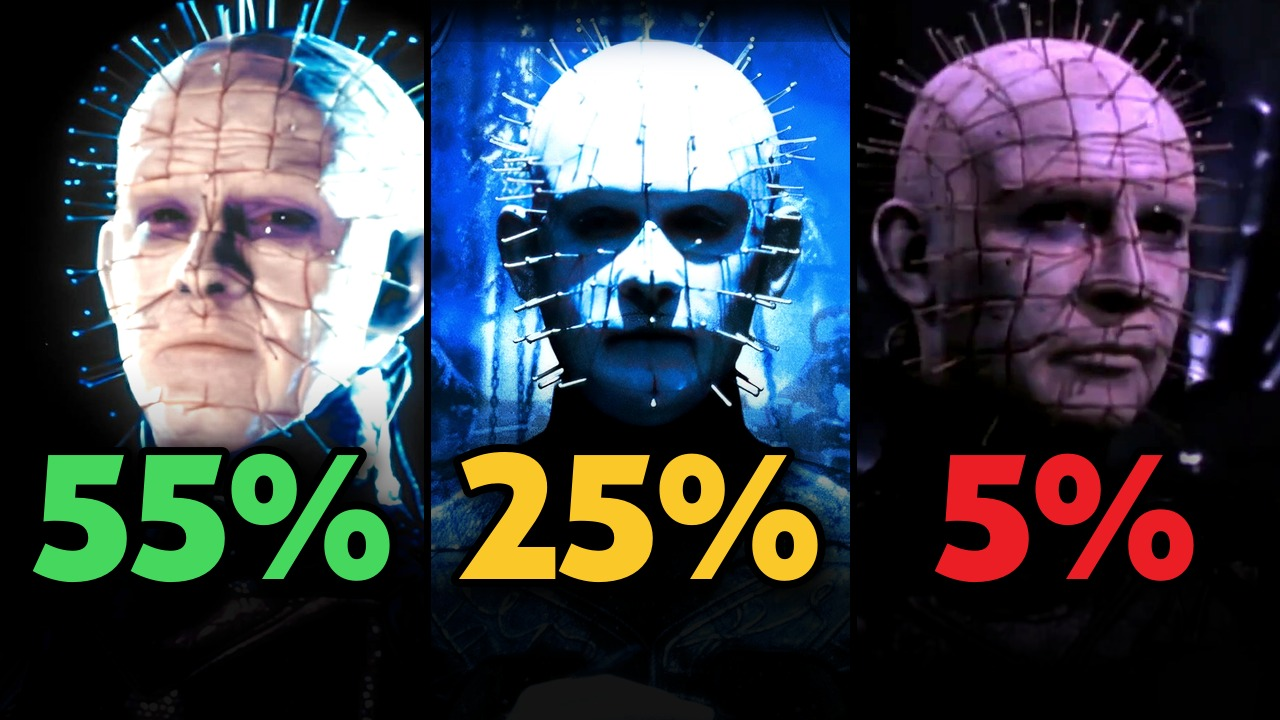
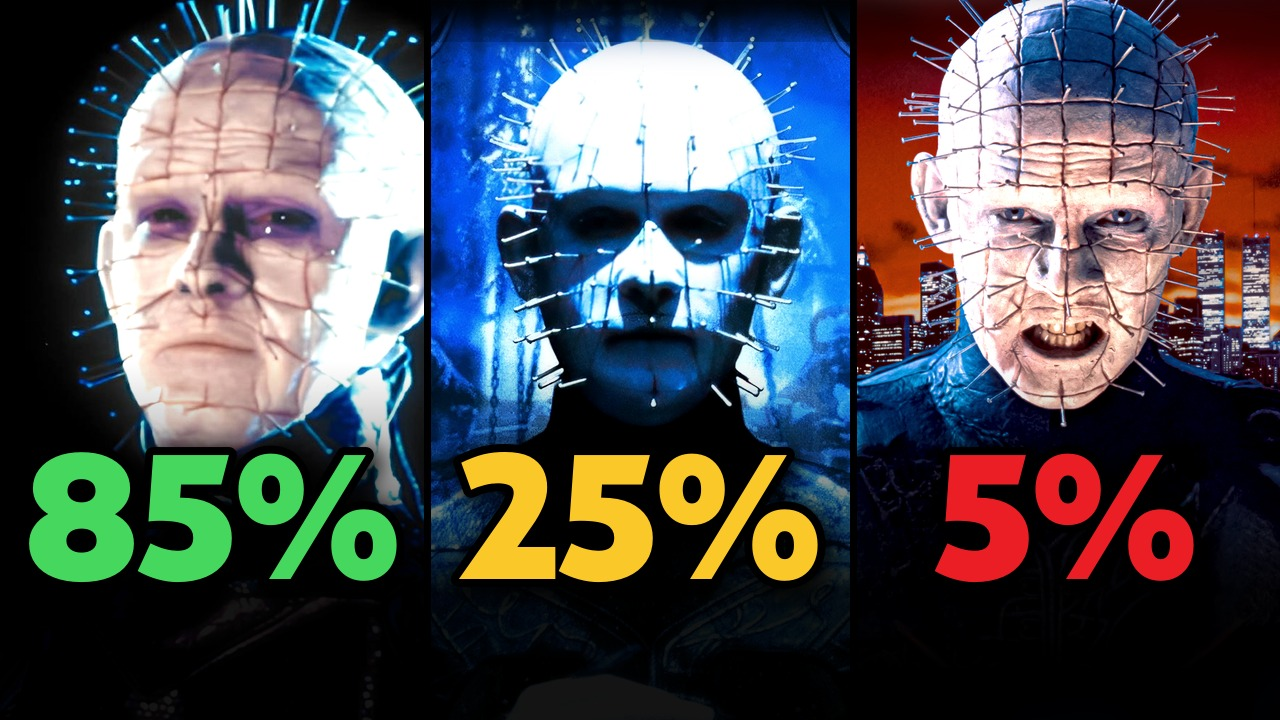
EP07 thumbs v6b: new numbers, each film once (A Revelations/Hellseeker/Judgment, B 1987/2022/Inferno, C Hellbound/Bloodline/Hell on Earth)

diff --git a/concepts/i444/ep07_pinhead/thumbs.py b/concepts/i444/ep07_pinhead/thumbs.py
@@ -70,12 +70,13 @@ os.makedirs(OUT, exist_ok=True)
 # No source image twice in a thumbnail or across A/B/C (the 1987 / Hell on Earth skyline face is one photo).
 FACE, EYE = 135, 215
 def F(clip, t, cx, cy, em, pct, col, bright=1.15): return P(clip, t, cx, cy, em, pct, col, bright, face_px=FACE, eye_y=EYE)
-three([F('poster:o_lXpBj7RDr7wShql0KpCLYHyYvdi.jpg', 0, 2179, 865, 405, '80%', GREEN, 1.1),     # Hellworld, jar room
-       F('native:hr1_pack4k', 44.0, 1240, 425, 230, '40%', YEL, 1.05),                         # Hellraiser 1987, hospital blinds (4K pack, native px)
-       F('poster:o_xjeoa7KjnUMQzJXGunHmgMjhHmP.jpg', 0, 2556, 802, 405, '5%', RED, 1.05)], 'pinhead_thumb_a.jpg')   # Hell on Earth, skyline
-three([F('poster:o_qW4hr2WweKiyztgd4Ql0wlfRYBF.jpg', 0, 2403, 458, 275, '60%', GREEN, 1.2),     # Judgment
-       F('hr22_bridge', 25.0, 807, 434, 191, '30%', YEL, 1.9),                                # the Priest, 2022
-       F('poster:o_yyiu_notitle.jpg', 0, 430, 639, 228, '8%', RED, 1.1)], 'pinhead_thumb_b.jpg')    # Inferno, official poster art (o_yyiuRnEIDCjr0g2Fsal0isi9GcU, title faded to its black background)
-three([F('poster:o_pl5OzUABUK5AgAsMlQg2VyybRHL.jpg', 0, 1719, 485, 188, '55%', GREEN, 0.95),     # Hellbound
-       F('poster:o_udZ3XqsurnNuGp1QfS5CLod6MS5.jpg', 0, 1000, 450, 283, '25%', YEL, 0.95),     # Bloodline, official poster art
-       F('hr3_unstoppable', 86.5, 1000, 418, 195, '5%', RED, 1.35)], 'pinhead_thumb_c.jpg')       # Hell on Earth, Boiler Room chains
+# v6b (owner 11/04 21:43 KST numbers): each film once across A/B/C; green >= 50, yellow 25-45, red <= 20
+three([F('poster:o_lnCm_notitle.jpg', 0, 506, 633, 289, '70%', GREEN, 1.05),                   # Revelations #10, official poster art (title faded)
+       F('hr6_pain', 205.0, 925, 410, 280, '45%', YEL, 1.6),                                # Hellseeker #8 (Miramax HD clip)
+       F('poster:o_qW4hr2WweKiyztgd4Ql0wlfRYBF.jpg', 0, 2403, 458, 275, '10%', RED, 1.2)], 'pinhead_thumb_a.jpg')    # Judgment #3
+three([F('native:hr1_pack4k', 44.0, 1240, 425, 230, '55%', GREEN, 1.05),                   # Hellraiser 1987 #9, hospital blinds (4K)
+       F('hr22_bridge', 25.0, 807, 434, 191, '35%', YEL, 1.9),                              # the Priest, 2022 #7
+       F('poster:o_yyiu_notitle.jpg', 0, 430, 639, 228, '8%', RED, 1.1)], 'pinhead_thumb_b.jpg')    # Inferno #2, official poster art (title faded)
+three([F('poster:o_pl5OzUABUK5AgAsMlQg2VyybRHL.jpg', 0, 1719, 485, 188, '85%', GREEN, 0.95),   # Hellbound #11
+       F('poster:o_udZ3XqsurnNuGp1QfS5CLod6MS5.jpg', 0, 1000, 450, 283, '25%', YEL, 0.95),   # Bloodline #6, official poster art
+       F('poster:o_xjeoa7KjnUMQzJXGunHmgMjhHmP.jpg', 0, 2556, 802, 405, '5%', RED, 1.05)], 'pinhead_thumb_c.jpg')   # Hell on Earth #1, skyline       # Hell on Earth, Boiler Room chains
